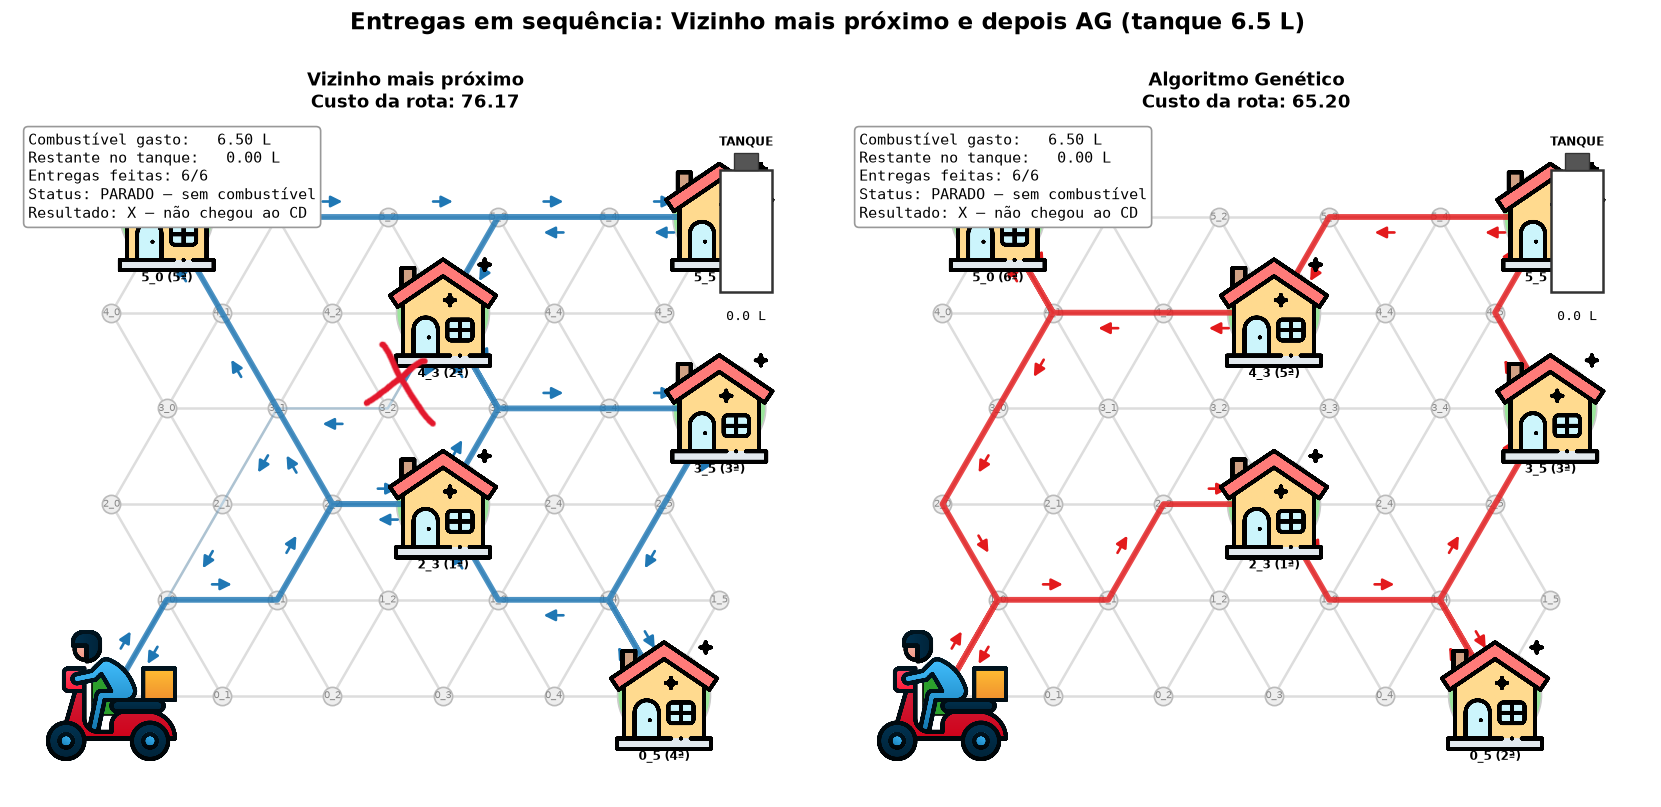
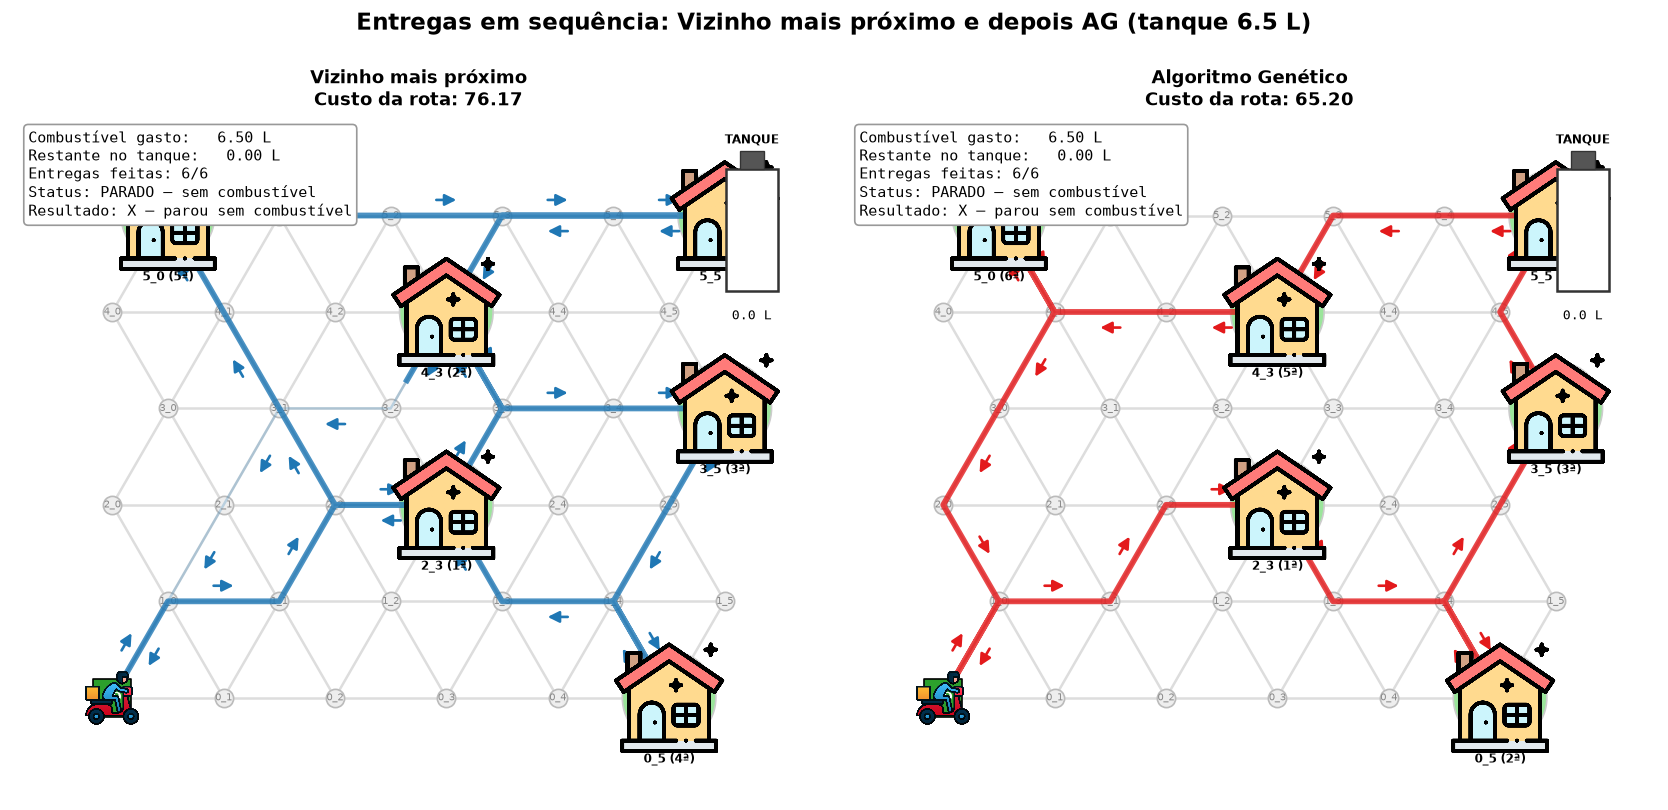
consertando linha de entrega do motoboy

diff --git a/busca.py b/busca.py
@@ -30,8 +30,9 @@ ENTREGAS = ["5_0", "5_5", "0_5", "3_5", "4_3", "2_3"]
 # ===== Parâmetros da simulação =====
 LITROS_POR_UNIDADE = 0.10    # litros gastos por unidade de custo de cada aresta
 TANQUE_L = 6.5              # capacidade inicial do tanque, em litros
-PASSOS_POR_ARESTA = 2        # quadros da animação em cada aresta
+PASSOS_POR_ARESTA = 4        # quadros da animação em cada aresta (maior = mais suave)
 PAUSA_NA_ENTREGA = 2         # quadros parados em cada casa
+PAUSA_FINAL = 12             # quadros parado no final (no CD ou onde o combustível acabou)
 DPI_GIF = 48                 # resolução do GIF (menor = mais rápido)
 
 # ===== Imagens (PNG) =====
@@ -39,7 +40,7 @@ PASTA_IMAGENS = os.path.dirname(os.path.abspath(__file__))  # PNGs junto deste s
 ARQ_CASA = os.path.join(PASTA_IMAGENS, "casa-limpa.png")
 ARQ_MOTO = os.path.join(PASTA_IMAGENS, "entregador.png")
 ZOOM_CASA = 0.13             # tamanho da casa no gráfico (ajuste se necessário)
-ZOOM_MOTO = 0.17             # tamanho do entregador no gráfico (ajuste se necessário)
+ZOOM_MOTO = 0.07             # mini entregador (aumente se quiser maior)
 
 
 def carregar_imagem(caminho):
@@ -226,9 +227,11 @@ def criar_moto(ax, imagem):
 # ---------------- 7. Simulação do entregador ----------------
 def simular_rota(G, ordem, T, pos):
     """
-    Percorre a rota trecho a trecho, aresta a aresta, e registra em cada quadro
-    a posição da moto, o combustível acumulado e as entregas já feitas.
-    Retorna (quadros, litros_por_entrega, litros_total).
+    Percorre a rota aresta por aresta, seguindo a linha de entrega, e registra
+    em cada quadro a posição do entregador, o combustível gasto e as entregas
+    feitas. Se o tanque esvaziar, o entregador PARA no ponto exato da aresta em
+    que o combustível acabou e não se move mais.
+    Retorna (quadros, litros_por_entrega, litros_total, sem_combustivel).
     """
     seq = [CD, *ordem, CD]
     # Cada quadro: (x, y, litros_gastos, entregas_feitas, parou_sem_combustivel)
@@ -242,20 +245,19 @@ def simular_rota(G, ordem, T, pos):
     parou = False
 
     for a, b in zip(seq, seq[1:]):
-        if parou:
-            break
         caminho = T[a, b][1]
         for u, v in zip(caminho, caminho[1:]):
             p1, p2 = np.array(pos[u]), np.array(pos[v])
             gasto_aresta = G[u][v]["weight"] * LITROS_POR_UNIDADE
             combustivel_restante = TANQUE_L - litros
             if gasto_aresta > combustivel_restante + 1e-9:
-                # Para no ponto da aresta em que o tanque chega a zero.
+                # Anda só até o ponto da aresta em que o tanque chega a zero.
                 fracao = max(0.0, combustivel_restante / gasto_aresta)
                 for passo in range(1, PASSOS_POR_ARESTA + 1):
                     t = fracao * passo / PASSOS_POR_ARESTA
                     x, y = p1 + (p2 - p1) * t
-                    quadros.append((x, y, TANQUE_L, tuple(entregues), True))
+                    quadros.append((x, y, litros + gasto_aresta * t,
+                                    tuple(entregues), passo == PASSOS_POR_ARESTA))
                 litros = TANQUE_L
                 parou = True
                 break
@@ -273,6 +275,9 @@ def simular_rota(G, ordem, T, pos):
             litros_por_entrega[b] = litros
             for _ in range(PAUSA_NA_ENTREGA):
                 quadros.append((x, y, litros, tuple(entregues), False))
+
+    for _ in range(PAUSA_FINAL):          # fica parado no final da simulação
+        quadros.append((x, y, litros, tuple(entregues), parou))
 
     return quadros, litros_por_entrega, litros, parou
 
@@ -347,23 +352,29 @@ def main():
     simulacoes = []
     totais = {}
     for titulo, ordem, cor in cenarios:
-        quadros, por_entrega, litros_total, parou = simular_rota(G, ordem, T, pos)
+        quadros, por_entrega, litros_total, sem_combustivel = simular_rota(G, ordem, T, pos)
         simulacoes.append((titulo, ordem, cor, quadros))
         totais[titulo] = litros_total
 
         print(f"\n{titulo}")
         print(f"  Trilha: {' → '.join([CD, *ordem, CD])}")
         for k, no in enumerate(ordem, 1):
-            print(f"  {k}ª entrega em {no:<4} combustível acumulado: {por_entrega[no]:6.2f} L")
-        if parou:
-            print(f"  PARADA no caminho: tanque vazio após {len(quadros[-1][3])} entrega(s).")
+            if no in por_entrega:
+                print(f"  {k}ª entrega em {no:<4} combustível acumulado: {por_entrega[no]:6.2f} L")
+            else:
+                print(f"  {k}ª entrega em {no:<4} não realizada (sem combustível)")
+        if sem_combustivel:
+            print(f"  PARADO no caminho: tanque vazio após {len(por_entrega)} entrega(s).")
             print(f"  Combustível gasto: {litros_total:.2f} L | restante: 0.00 L")
         else:
             print(f"  Retorno ao CD concluído | gasto: {litros_total:.2f} L | "
-                  f"restante: {max(0.0, TANQUE_L - litros_total):.2f} L")
+                  f"restante: {TANQUE_L - litros_total:.2f} L")
 
-    diferenca = totais["Algoritmo Genético"] - totais["Vizinho mais próximo"]
+    consumo_rota = {t: custo_rota(o, T) * LITROS_POR_UNIDADE for t, o, _ in cenarios}
     print("\n" + "=" * 72)
+    for titulo, consumo in consumo_rota.items():
+        print(f"Consumo da rota completa | {titulo}: {consumo:.2f} L (tanque: {TANQUE_L:.1f} L)")
+    diferenca = consumo_rota["Algoritmo Genético"] - consumo_rota["Vizinho mais próximo"]
     print(f"Diferença de consumo (AG − vizinho mais próximo): {diferenca:+.2f} L")
     print("=" * 72)
 
@@ -457,21 +468,27 @@ def main():
             p["tanque_valor"].set_text(f"{restante:.1f} L")
 
             terminou = not aguardando and i == len(quadros) - 1
-            chegou_cd = terminou and not parou and np.allclose(
-                (x, y), pos[CD], atol=1e-9
-            )
             if not terminou:
                 resultado = "Resultado: em andamento"
-            elif chegou_cd:
+            elif not parou:
                 resultado = "Resultado: V — chegou ao CD"
             else:
-                resultado = "Resultado: X — não chegou ao CD"
+                resultado = "Resultado: X — parou sem combustível"
+
+            if aguardando:
+                status = "Aguardando vez"
+            elif parou:
+                status = "PARADO — sem combustível"
+            elif terminou:
+                status = "Rota concluída (no CD)"
+            else:
+                status = "Em rota"
 
             p["info"].set_text(
                 f"Combustível gasto: {litros:6.2f} L\n"
                 f"Restante no tanque: {restante:6.2f} L\n"
                 f"Entregas feitas: {len(entregues)}/{len(p['ordem'])}\n"
-                f"Status: {'Aguardando vez' if aguardando else ('PARADO — sem combustível' if parou else 'Em rota')}\n"
+                f"Status: {status}\n"
                 f"{resultado}"
             )
 
